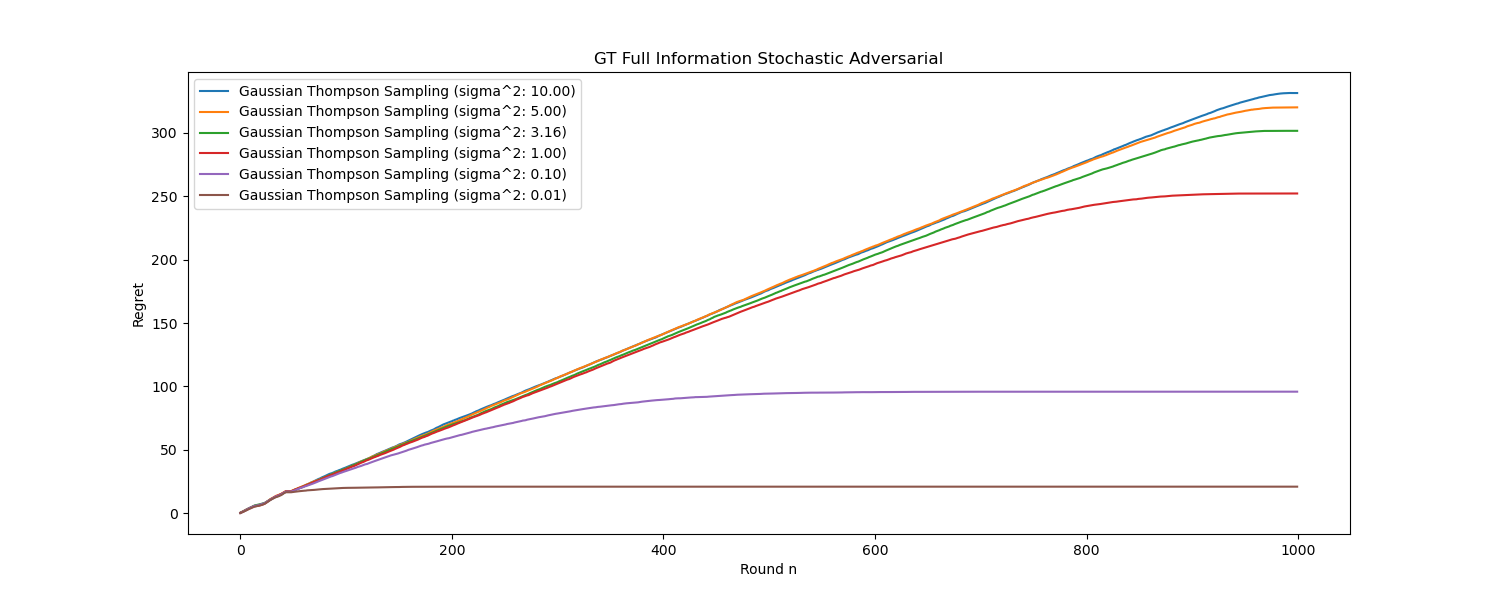
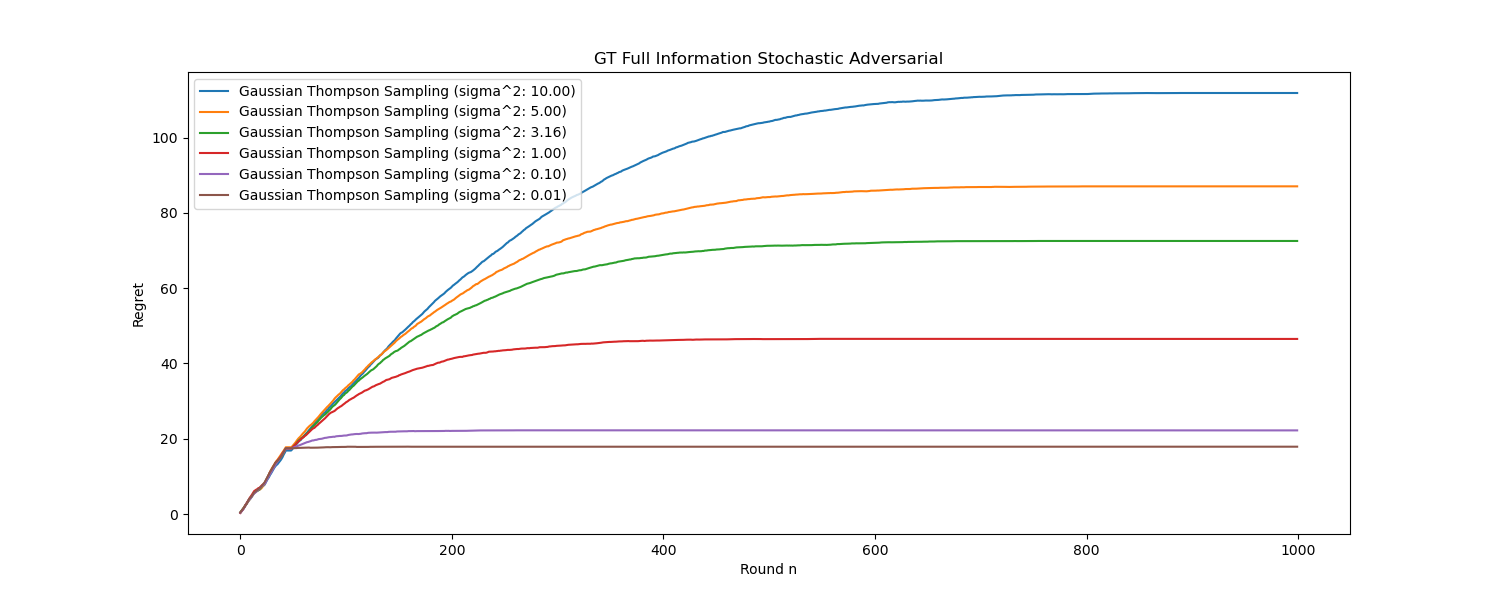
Scale in Gaussian Thompson is stdev

diff --git a/gaussian_thompson_sampling.py b/gaussian_thompson_sampling.py
@@ -27,7 +27,7 @@ class Gaussian_Thompson_FI(Bandit_Algorithm_FI):
         if (t < self.exploration_phase_length):
             return math.floor(t / self.init_exploration)
         else:
-            perturbations = random.normal(scale = self.sigma_sq * (self.data_generating_mechanism.get_T() - t), 
+            perturbations = random.normal(scale = math.sqrt(self.sigma_sq * (self.data_generating_mechanism.get_T() - t)), 
                                           size = self.data_generating_mechanism.get_K())
             return np.argmin(np.sum(losses, axis=1) + perturbations)
         
@@ -44,7 +44,7 @@ class Gaussian_Thompson_PI(Bandit_Algorithm_PI):
 
         self.__data_generating_mechanism = data_generating_mechanism
         self.__current_sampling_distribution = np.ones(shape = self.K) / self.K
-        self.__label = "Gaussian Thompson Sampling (K: {:0.2f})".format(self.sigma_sq)
+        self.__label = "Gaussian Thompson Sampling (sigma_sq: {:0.2f})".format(self.sigma_sq)
 
     @property
     def data_generating_mechanism(self):
@@ -71,7 +71,7 @@ class Gaussian_Thompson_PI(Bandit_Algorithm_PI):
             num_counts = np.zeros(shape = self.K)
             
             for n in range(self.num_bootstrap_simulations):
-                perturbations = random.normal(scale = self.sigma_sq * (self.data_generating_mechanism.get_T() - t), 
+                perturbations = random.normal(scale = math.sqrt(self.sigma_sq * (self.data_generating_mechanism.get_T() - t)), 
                                           size = self.data_generating_mechanism.get_K())
                 arm_chosen_this_simulation = np.argmin(np.sum(importance_weighted_losses, axis = 1) + perturbations)
                 num_counts[arm_chosen_this_simulation] = num_counts[arm_chosen_this_simulation] + 1
